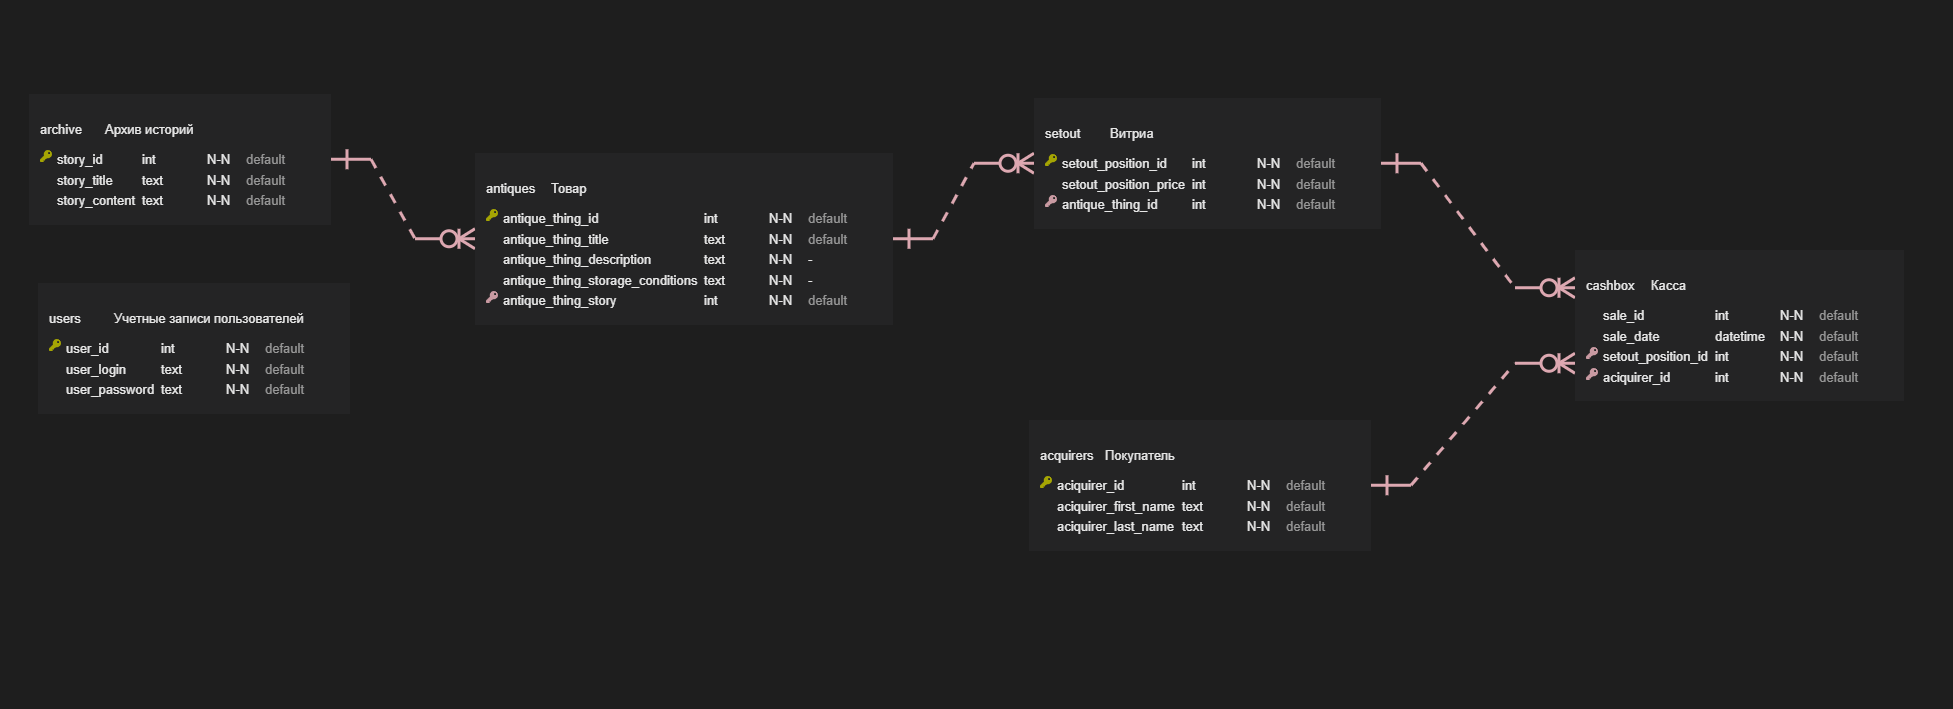
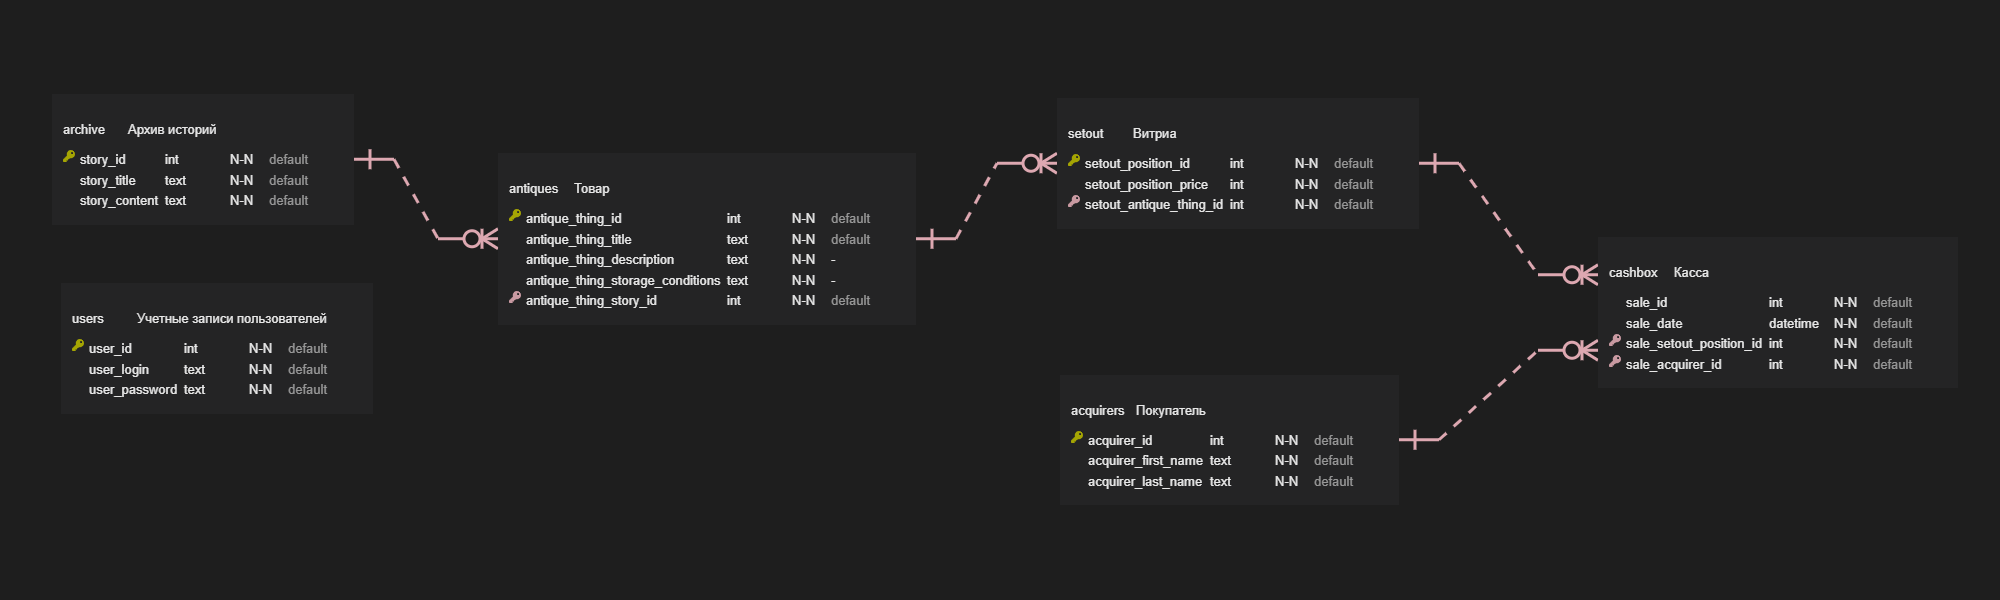
Updated subject area and model

diff --git a/DB/subject_area.md b/DB/subject_area.md
@@ -1,11 +1,23 @@
 # Антикварная лавка
 ## Описание
-<!-- TODO: добавить описание -->
+<!-- TODO: дополнить описание -->
+**Антикварный магазин** занимается продажей антиквариата с сопутствующими историями.
+
+## Подсистемы
+<!-- TODO: добавить подсистемы и их описания -->
+
 ## Список таблиц
-- `users` - хранит данные пользователей системы
-- `antiques` - хранит информацию о товаре
-- `setout` - хранит информацию о товарах выставленных на продажу
-- `archive` - хранит информацию о историях связанных с продаваемыми товарами
-- `cashbox` - хранит информацию о проведенных сделках
-- `acquirers` - хранит информацию о лице приобрётшем товар
+- `users` - хранит данные пользователей системы\
+    `user_id`; `user_login`; `user_password` 
+- `antiques` - хранит информацию о товаре\
+    `antique_thing_id`; `antique_thing_title`; `antique_thing_description`; `antique_thing_storage_conditions`; `antique_thing_story_id`
+- `setout` - хранит информацию о товарах выставленных на продажу\
+    `setout_position_id`; `setout_position_price`; `setout_position_antique_thing_id`
+- `archive` - хранит информацию о историях связанных с продаваемыми товарами\
+    `story_id`, `story_title`; `story_content`
+- `cashbox` - хранит информацию о проведенных сделках\
+    `sale_id`; `sale_date`; `sale_setout_position_id`; `sale_acquirer_id`
+- `acquirers` - хранит информацию о лице приобрётшем товар\
+    `acquirer_id`; `acquirer_first_name`; `acquirer_last_name`
 <!--//- stockroom - хранит информацию о товарах находящихся на складе - -->
+<!-- TODO: добавить описание полей -->
